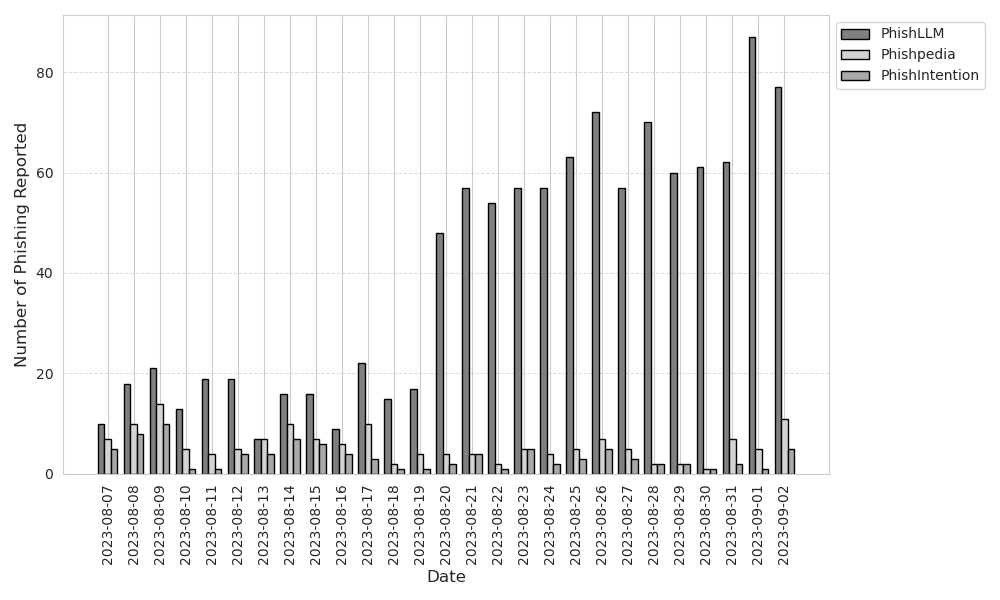
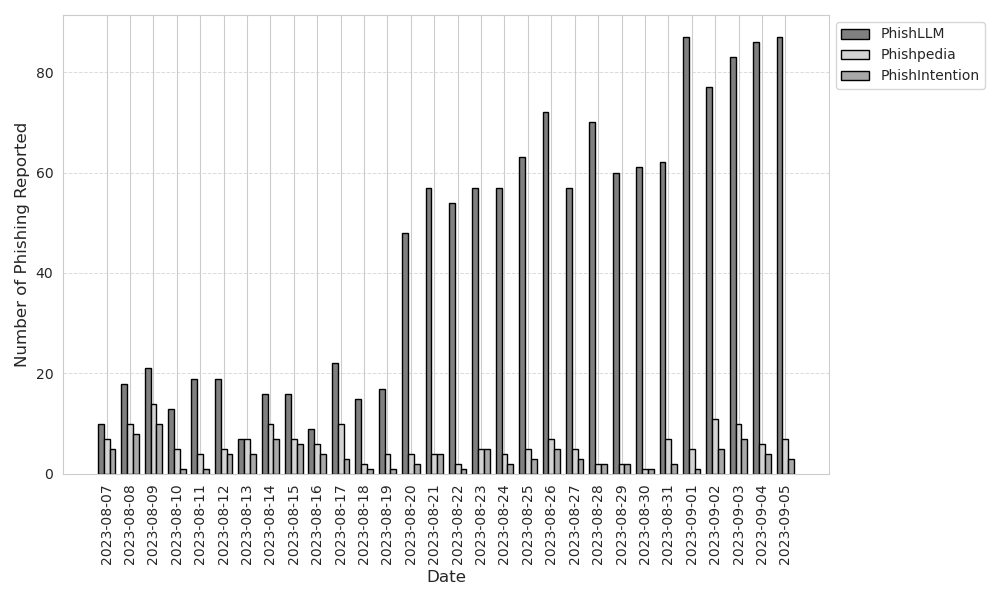
m

Changed region(s): [[0.093, 0.03, 0.806, 0.96]]

diff --git a/field_study/test.py b/field_study/test.py
@@ -6,8 +6,8 @@ import yaml
 if __name__ == '__main__':
 
     parser = argparse.ArgumentParser()
-    parser.add_argument("--folder", default="./datasets/field_study/2023-08-28/")
-    parser.add_argument("--date", default="2023-08-28", help="%Y-%m-%d")
+    parser.add_argument("--folder", default="./datasets/field_study/2023-09-03/")
+    parser.add_argument("--date", default="2023-09-03", help="%Y-%m-%d")
     parser.add_argument("--validate", action='store_true', help="Whether or not to activate the results validation for brand recognition model")
     parser.add_argument("--config", default='./param_dict.yaml', help="Config .yaml path")
     args = parser.parse_args()
@@ -56,7 +56,7 @@ if __name__ == '__main__':
         if folder in [x.split('\t')[0] for x in open(result_txt, encoding='ISO-8859-1').readlines()]:
             continue
         # if folder not in [
-        #                    'systemsblog.blog.test.wp.kolaybet.org',
+        #                    'amazon-clone.jmclery.dev',
         #                 ]:
         #     continue
 

diff --git a/model_chain/web_utils.py b/model_chain/web_utils.py
@@ -168,8 +168,12 @@ def is_alive_domain(domain: str, proxies: Optional[Dict]=None) -> bool:
     while ct_limit < 3:
         try:
             response = requests.get('https://' + domain, timeout=60, proxies=proxies)
-            if response.status_code == 200:  # it is alive
+            if response.status_code < 400:
                 PhishLLMLogger.spit(f'Domain {domain} is valid and alive', caller_prefix=PhishLLMLogger._caller_prefix, debug=True)
+                return True
+            elif response.history and any([r.status_code < 400 for r in response.history]):
+                PhishLLMLogger.spit(f'Domain {domain} is valid and alive', caller_prefix=PhishLLMLogger._caller_prefix,
+                                    debug=True)
                 return True
             break
         except Exception as err:

diff --git a/field_study/draw_utils.py b/field_study/draw_utils.py
@@ -385,7 +385,7 @@ class CampaignAnalysis:
         plt.figure(figsize=(20, 10))
 
         # Define Color Palette
-        colors = cycle(sns.color_palette("husl", 6))
+        colors = cycle(sns.color_palette("husl", 7))
 
         # Extract Unique Dates and Sort Clusters
         all_dates = set()

diff --git a/README.md b/README.md
@@ -1,11 +1,16 @@
 # PhishLLM
 
-<p align="center">
-  • <a href="">Paper</a> •
-  <a href="">Website</a> •
-  <a href="https://drive.google.com/drive/folders/1x6N6QEt_34B-pMStbBANUrjim-2ixG6T?usp=sharing">Datasets</a>  •
-  <a href="#citation">Citation</a> •
-</p>
+[//]: # (<p align="center">)
+
+[//]: # (  • <a href="">Paper</a> •)
+
+[//]: # (  <a href="">Website</a> •)
+
+[//]: # (  <a href="https://drive.google.com/drive/folders/1x6N6QEt_34B-pMStbBANUrjim-2ixG6T?usp=sharing">Datasets</a>  •)
+
+[//]: # (  <a href="#citation">Citation</a> •)
+
+[//]: # (</p>)
 
 ## Introductions
 Existing reference-based phishing detection
@@ -98,7 +103,6 @@ Note that this will improve the phishing report precision but at the same time i
     </code></pre>
 </details>
 
-
 ## Findings
 <details>
   <summary>Number of phishing caught</summary>
@@ -113,11 +117,11 @@ Note that this will improve the phishing report precision but at the same time i
   
   | Top-5 TLD | Frequency      |
   |----------------| --------------- |
-  | .com    | 256 occurrences |
-  | .de   | 39 occurrences |
-  | .info    | 31 occurrences |
-  | .online    |  30 occurrences |
-  | .net    | 30 occurrences |
+  | .com | 447 occurrences |
+  | .de | 60 occurrences |
+  | .online | 58 occurrences |
+  | .info | 52 occurrences |
+  | .xyz | 52 occurrences |
 
 </details>
 <details>
